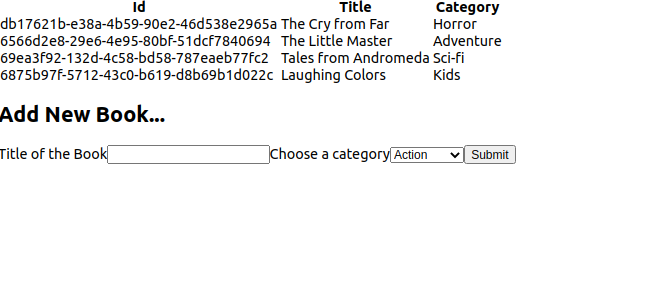
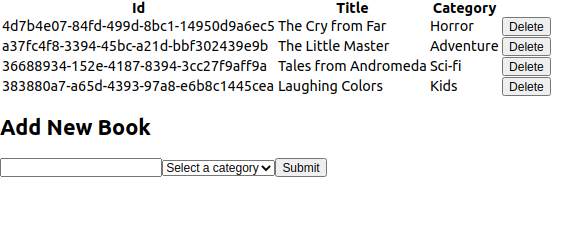
update README file.

diff --git a/README.md b/README.md
@@ -1,7 +1,7 @@
 # Bookstore
 
 >This is a simple bookstore app created using the react-redux library.  
->This is the second milestone of the project where I have added redux and displayed some books as the initial state of the app.  
+>This is the third milestone of the project where I have added feature to add a new book or remove a book from the redux store.    
 >The main objective of this assignment is to learn about redux state management library.
 <div align="center">
 
